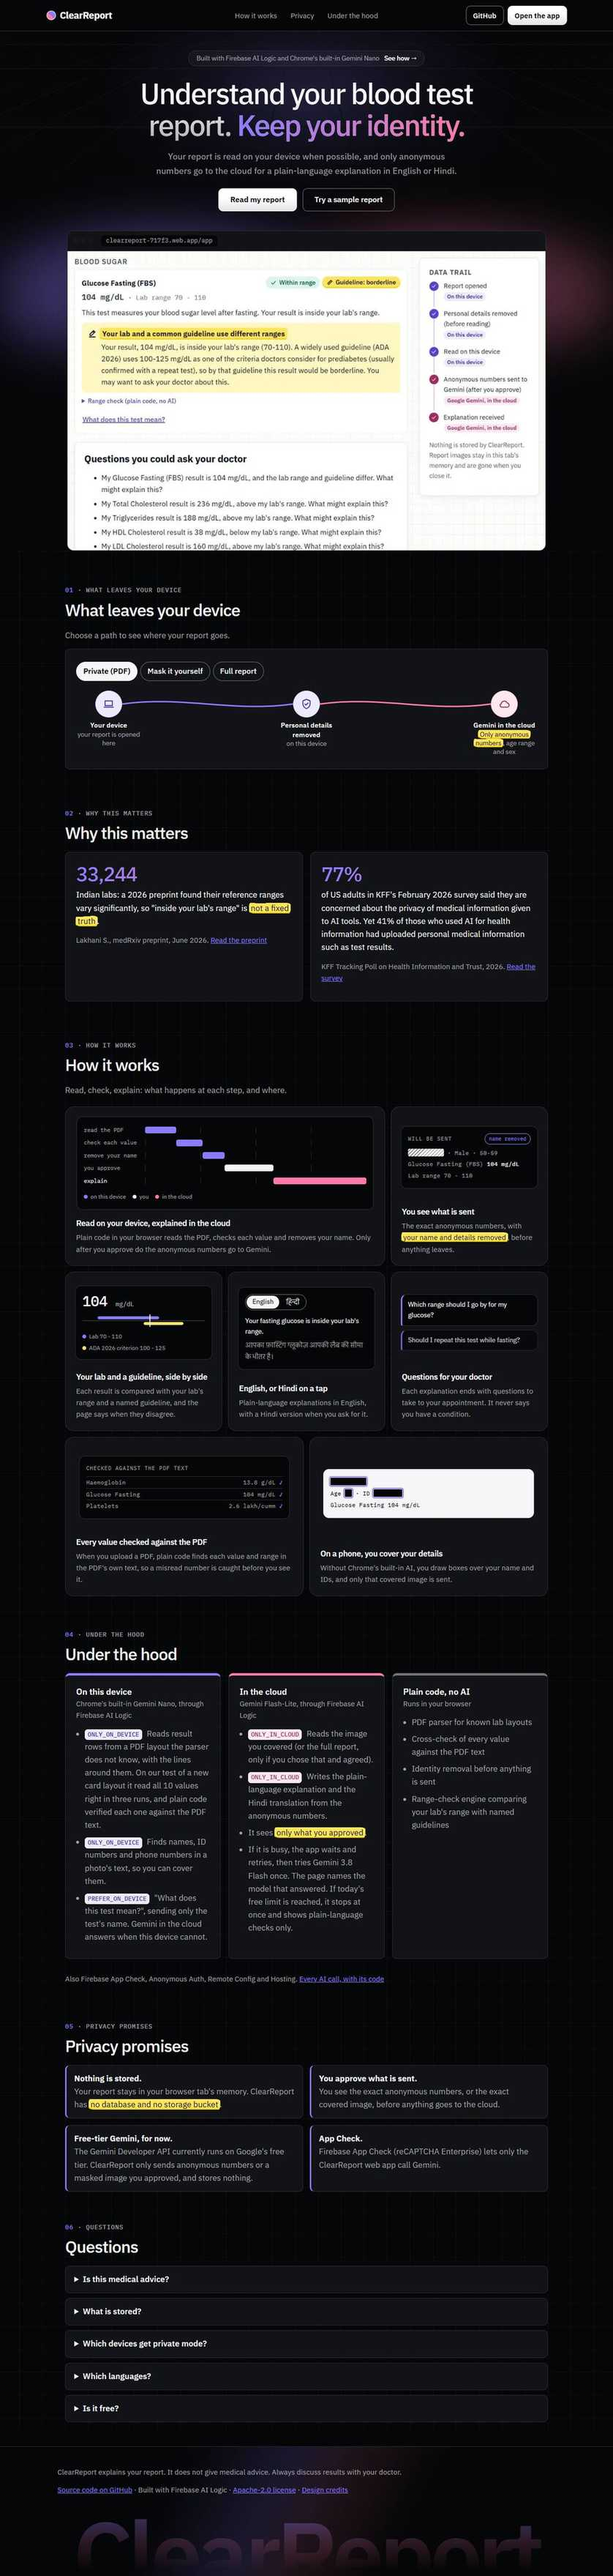
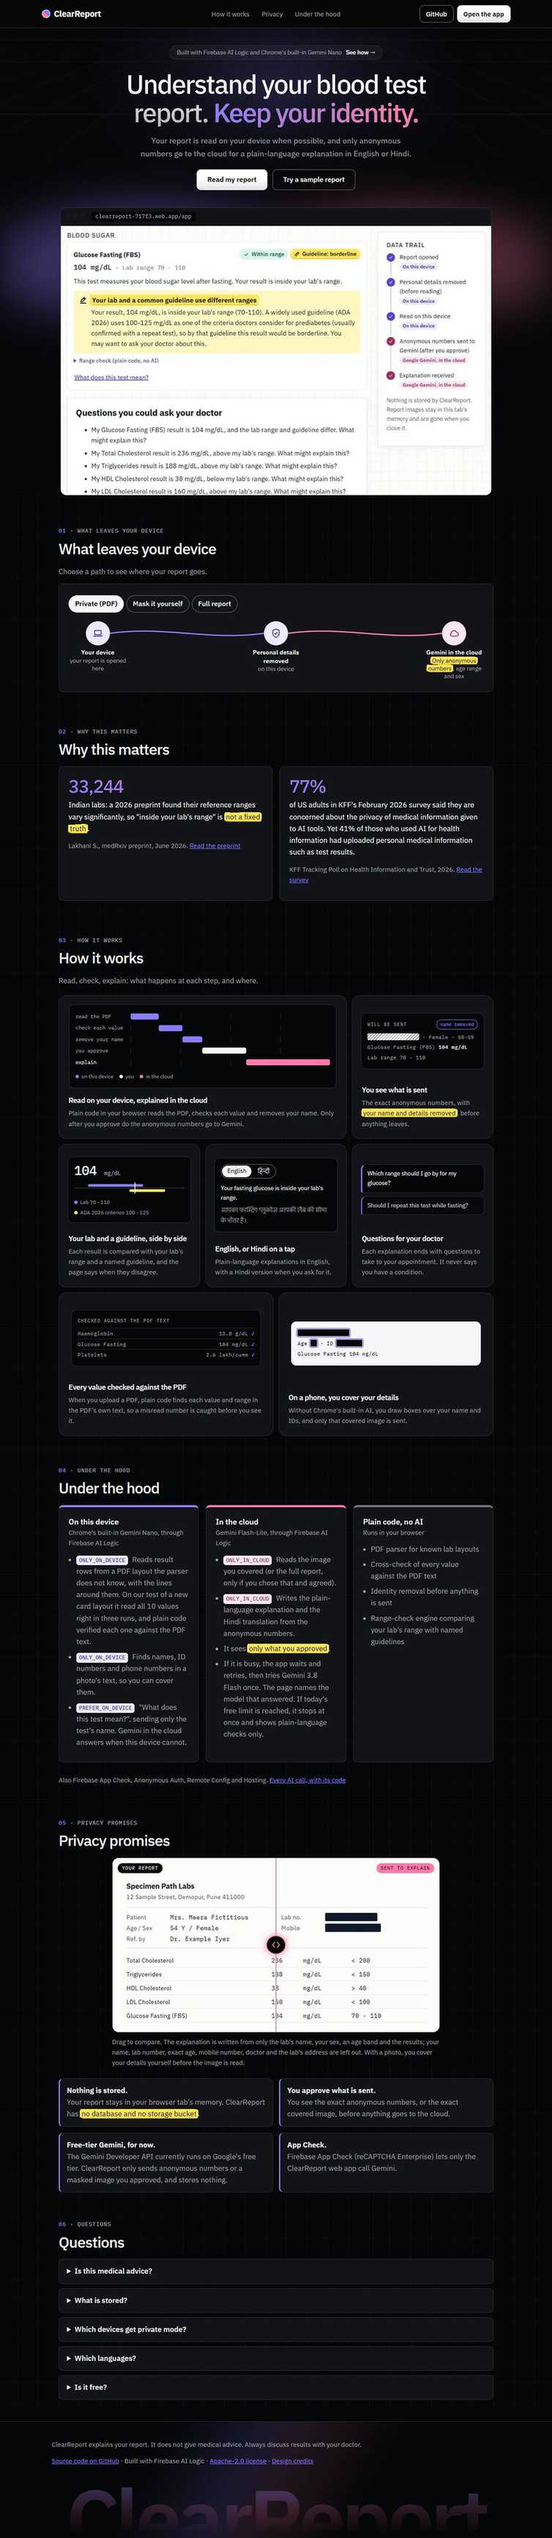
Landing: compare slider showing the report next to what is sent to explain it

Changed region(s): [[0.0, 0.0, 0.9761, 0.9968], [0.3355, 0.9345, 0.6101, 0.9968], [0.8541, 0.0, 0.8846, 0.0312]]

diff --git a/src/index.css b/src/index.css
@@ -479,6 +479,40 @@ a.btn.quiet { border-color: var(--border); color: var(--ink); font-weight: 500; 
 .sec-label { font-family: var(--mono); font-size: 0.8rem; font-weight: 500; letter-spacing: 0.08em; text-transform: uppercase; color: var(--night-muted); margin: 0 0 8px; }
 .sec-label span { color: var(--glow-violet); }
 .land-grid2 { display: grid; grid-template-columns: 1fr 1fr; gap: 16px; }
+/* Compare slider (Compare.tsx): the sample report on paper, as printed, on the left of the divider; on the right the
+   same report as the explanation call receives it. The native range input covers the frame (transparent), so a drag or
+   tap anywhere moves the divider and the keyboard works; the visible handle follows --pos. */
+@property --pos { syntax: '<percentage>'; inherits: true; initial-value: 50%; }
+.cmp-figure { margin: 18px 0 24px; }
+.cmp-figure figcaption { max-width: 760px; margin: 10px auto 0; color: var(--night-muted); }
+.cmp { position: relative; max-width: 760px; margin: 0 auto; border-radius: 16px; overflow: hidden; border: 1px solid var(--night-border); background: var(--paper); user-select: none; }
+.cmp-side { position: relative; }
+.cmp-before { position: absolute; inset: 0; clip-path: inset(0 calc(100% - var(--pos)) 0 0); background: var(--paper); }
+.cmp-intro { animation: cmp-sweep 2.6s ease-in-out 0.3s both; }
+@keyframes cmp-sweep { 0% { --pos: 50%; } 38% { --pos: 94%; } 78% { --pos: 6%; } 100% { --pos: 50%; } }
+@media (prefers-reduced-motion: reduce) { .cmp-intro { animation: none; } }
+.cmp-report { padding: 52px clamp(14px, 4vw, 32px) 22px; color: var(--ink); font-size: clamp(0.72rem, 1.9vw, 0.9rem); }
+.cmp-report p { margin: 0; }
+.cmp-lab { font-weight: 700; font-size: 1.15em; }
+.cmp-meta { color: var(--ink-muted); margin-bottom: 12px !important; }
+.cmp-who { display: grid; grid-template-columns: repeat(auto-fit, minmax(280px, 1fr)); gap: 2px 24px; margin: 0 0 12px; padding: 10px 0; border-top: 1px solid var(--border); border-bottom: 1px solid var(--border); }
+.cmp-who div { display: flex; gap: 8px; }
+.cmp-who dt { color: var(--ink-muted); min-width: 6.5em; }
+.cmp-who dd { margin: 0; font-family: var(--mono); }
+.cmp-gone { text-decoration: none; color: transparent; background: var(--ink); border-radius: 2px; }
+.cmp-report table { width: 100%; border-collapse: collapse; font-family: var(--mono); font-variant-numeric: tabular-nums; }
+.cmp-report td { padding: 4px 6px 4px 0; border-bottom: 1px solid var(--border); white-space: nowrap; }
+.cmp-report td:first-child { font-family: var(--font); white-space: normal; }
+.cmp-chip { position: absolute; top: 12px; z-index: 2; padding: 3px 10px; border-radius: 999px; background: var(--night); color: var(--night-text); font-family: var(--mono); font-size: 0.68rem; letter-spacing: 0.1em; text-transform: uppercase; pointer-events: none; }
+.cmp-chip.left { left: 12px; }
+.cmp-chip.right { right: 12px; background: var(--glow-rose); color: var(--night); }
+.cmp-handle { position: absolute; z-index: 3; top: 0; bottom: 0; left: var(--pos); width: 2px; margin-left: -1px; background: var(--glow-rose); pointer-events: none; }
+.cmp-handle svg { position: absolute; left: 50%; top: 50%; translate: -50% -50%; box-sizing: content-box; padding: 13px 12px; border-radius: 50%; border: 2px solid var(--glow-rose); color: var(--glow-rose); background: var(--night); box-shadow: 0 0 0 6px rgba(255, 122, 168, 0.18), 0 0 26px rgba(255, 122, 168, 0.45); }
+.cmp input { position: absolute; inset: 0; z-index: 4; width: 100%; height: 100%; margin: 0; opacity: 0; cursor: ew-resize; touch-action: pan-y; -webkit-appearance: none; appearance: none; }
+.cmp input::-webkit-slider-thumb { -webkit-appearance: none; width: 2px; height: 100vh; }
+.cmp input::-moz-range-thumb { width: 2px; height: 100vh; border: 0; }
+.cmp:has(input:focus-visible) .cmp-handle svg { outline: 2px solid var(--glow-violet); outline-offset: 4px; }
+
 /* "How it works" as a bento grid (Bento.tsx): one column, two from 640px of section width, six from 920px.
    Static illustrations in the landing tokens: violet on the device, rose in the cloud, yellow only where the lab
    and a guideline disagree. */

diff --git a/src/Compare.tsx b/src/Compare.tsx
@@ -1,0 +1,62 @@
+import { useEffect, useRef, useState, type CSSProperties } from 'react'
+// Drag to compare the sample report with what ClearReport sends to the cloud. The explanation call sends only
+// { lab_name, age_band, sex, tests } (see explain.ts), so the right side keeps exactly those and drops the rest.
+// Before/after slider after Motiq's "Compare Reveal" (MIT), rebuilt in plain CSS: the control is a native range input
+// (arrow keys, Home/End, screen-reader value for free), and the reveal is a clip-path driven by --pos. The one-time
+// sweep on first view is a CSS animation, off with prefers-reduced-motion. Skipped: the spring physics.
+
+// The synthetic sample report (public/samples/demo.pdf).
+const ROWS: [string, string, string, string][] = [
+  ['Total Cholesterol', '236', 'mg/dL', '< 200'], ['Triglycerides', '188', 'mg/dL', '< 150'], ['HDL Cholesterol', '38', 'mg/dL', '> 40'],
+  ['LDL Cholesterol', '160', 'mg/dL', '< 100'], ['Glucose Fasting (FBS)', '104', 'mg/dL', '70 - 110'],
+]
+
+function Report({ sent }: { sent?: boolean }) {
+  const gone = (text: string) => (sent ? <s className="cmp-gone">{text}</s> : text)
+  return (
+    <div className="cmp-report">
+      <p className="cmp-lab">Specimen Path Labs</p>
+      <p className="cmp-meta">{gone('12 Sample Street, Demopur, Pune 411000')}</p>
+      <dl className="cmp-who">
+        <div><dt>Patient</dt><dd>{gone('Mrs. Meera Fictitious')}</dd></div>
+        <div><dt>Lab no.</dt><dd>{gone('SPL-DEMO-20419')}</dd></div>
+        <div><dt>{sent ? 'Age band / Sex' : 'Age / Sex'}</dt><dd>{sent ? <b>50-59 / Female</b> : '54 Y / Female'}</dd></div>
+        <div><dt>Mobile</dt><dd>{gone('+91 90000 00015')}</dd></div>
+        <div><dt>Ref. by</dt><dd>{gone('Dr. Example Iyer')}</dd></div>
+      </dl>
+      <table>
+        <tbody>{ROWS.map(([t, v, u, r]) => <tr key={t}><td>{t}</td><td>{v}</td><td>{u}</td><td>{r}</td></tr>)}</tbody>
+      </table>
+    </div>
+  )
+}
+
+export default function Compare() {
+  const [pos, setPos] = useState(50)
+  const [touched, setTouched] = useState(false)
+  const [seen, setSeen] = useState(false)
+  const ref = useRef<HTMLDivElement>(null)
+  useEffect(() => {
+    const el = ref.current
+    if (!el || typeof IntersectionObserver === 'undefined') return
+    const io = new IntersectionObserver(([e]) => { if (e.isIntersecting) { setSeen(true); io.disconnect() } }, { threshold: 0.5 })
+    io.observe(el)
+    return () => io.disconnect()
+  }, [])
+  return (
+    <figure className="cmp-figure">
+      <div ref={ref} className={`cmp${seen && !touched ? ' cmp-intro' : ''}`} style={{ '--pos': `${pos}%` } as CSSProperties}>
+        <div className="cmp-side" aria-hidden="true"><Report sent /></div>
+        <div className="cmp-side cmp-before" aria-hidden="true"><Report /></div>
+        <span className="cmp-chip left" aria-hidden="true">Your report</span>
+        <span className="cmp-chip right" aria-hidden="true">Sent to explain</span>
+        <span className="cmp-handle" aria-hidden="true">
+          <svg width="18" height="14" viewBox="0 0 18 14" fill="none"><path d="M6 1 1 7l5 6M12 1l5 6-5 6" stroke="currentColor" strokeWidth="2" strokeLinecap="round" strokeLinejoin="round" /></svg>
+        </span>
+        <input type="range" min={0} max={100} value={pos} aria-label="Compare your report with what is sent to explain it" aria-valuetext={`${pos}% showing your report`}
+          onChange={(e) => { setTouched(true); setPos(Number(e.target.value)) }} onPointerDown={() => setTouched(true)} />
+      </div>
+      <figcaption className="small muted">Drag to compare. The explanation is written from only the lab's name, your sex, an age band and the results; your name, lab number, exact age, mobile number, doctor and the lab's address are left out. With a photo, you cover your details yourself before the image is read.</figcaption>
+    </figure>
+  )
+}

diff --git a/src/Landing.tsx b/src/Landing.tsx
@@ -1,6 +1,7 @@
 import { useEffect, useRef, useState } from 'react'
 import Beam from './Beam'
 import Bento from './Bento'
+import Compare from './Compare'
 import { checkTest, DISCLAIMER } from './guidelines'
 import { Badge, Icon, Logo } from './ui'
 // The landing page at "/". Static: no Firebase, no AI, no report. The tool lives at /app.
@@ -184,6 +185,7 @@ export default function Landing() {
         <section className="land-section" id="privacy" aria-labelledby="privacy-title">
           <p className="sec-label" aria-hidden="true"><span>05</span> · Privacy promises</p>
           <h2 id="privacy-title">Privacy promises</h2>
+          <Compare />
           <ul className="promises">
             <li><b>Nothing is stored.</b> Your report stays in your browser tab's memory. ClearReport has <mark className="hl">no database and no storage bucket</mark>.</li>
             <li><b>You approve what is sent.</b> You see the exact anonymous numbers, or the exact covered image, before anything goes to the cloud.</li>

diff --git a/scripts/contrast.ts b/scripts/contrast.ts
@@ -38,6 +38,7 @@ const PAIRS: [string, string, number, string][] = [
   ['glow-violet', 'night', 4.5, 'links on dark, gradient start'], ['glow-rose', 'night', 4.5, 'gradient end'],
   ['night-muted', 'night-grid', 4.5, 'section text where it crosses a slide-grid line'],
   ['glow-violet', 'night-surface', 4.5, 'links, step names and fact numbers on dark cards'], ['glow-rose', 'night-surface', 4.5, 'fact number gradient end on dark cards'],
+  ['night', 'glow-rose', 4.5, '"Sent to explain" chip on the compare slider'], ['night-text', 'night', 4.5, '"Your report" chip on the compare slider'],
   ['night-text', 'night-border', 4.5, '"Paused" note and hovered tabs in the data-journey diagram'], ['night', 'night-text', 4.5, 'selected tab in the data-journey diagram'],
   ['night-control', 'night', 3, 'ghost button and menu button borders on dark (non-text)'], ['glow-violet', 'night', 3, 'focus ring on dark (non-text)'], ['glow-violet', 'night-surface', 3, 'focus ring on a hovered dark control (non-text)'],
 ]

diff --git a/src/Bento.tsx b/src/Bento.tsx
@@ -27,7 +27,7 @@ const trail = (
 const approve = (
   <div className="bv-panel bv-mono">
     <p className="bv-head">Will be sent <span className="bv-badge">name removed</span></p>
-    <p><s className="bv-redact">Asha Verma</s> · Male · 50-59</p>
+    <p><s className="bv-redact">Meera Fictitious</s> · Female · 50-59</p>
     <p>Glucose Fasting (FBS) <b>104 mg/dL</b></p>
     <p>Lab range 70 - 110</p>
   </div>
@@ -74,7 +74,7 @@ const crosscheck = (
 
 const mask = (
   <div className="bv-panel bv-mono bv-photo">
-    <p><span className="bv-box">Asha Verma</span></p>
+    <p><span className="bv-box">Meera Fictitious</span></p>
     <p>Age <span className="bv-box">54</span> · ID <span className="bv-box">RB-20419</span></p>
     <p>Glucose Fasting 104 mg/dL</p>
   </div>

diff --git a/docs/superpowers/specs/2026-11-23-ui-theme-design.md b/docs/superpowers/specs/2026-11-23-ui-theme-design.md
@@ -101,6 +101,7 @@ The landing page only; the app screens do not change. The header, announcement p
 - Product image: rounded 14px with a large soft shadow and a violet-to-rose radial glow behind it (CSS only), kept clear of the hero text and buttons. The live glucose card on phones stays.
 - The hero fades in on load (0.6s); with `prefers-reduced-motion` it does not, and the white button does not scale.
 - "How it works" is a bento grid (after the 21st.dev "Marketing Feature Bento", layout only, in plain CSS with these tokens): seven `--night-surface` cards on a six-column grid (one column on phones, two from 640px of section width), each with a small static illustration drawn from the synthetic sample: the data trail (violet on the device, white for you, rose in the cloud), what will be sent with the name redacted, the lab range against the ADA criterion band (yellow, since that is where they disagree), the English and Hindi toggle, questions for your doctor, the PDF cross-check and a covered photo. The illustrations are `aria-hidden`; each card's heading and text carry the meaning. No scroll animation.
+- Privacy promises open with a compare slider (after Motiq's "Compare Reveal", MIT, in plain CSS): the synthetic sample report printed on `--paper` on the left of the divider, and on the right the same report as the explanation call receives it (lab name, sex, age band and results; name, lab number, exact age, mobile, doctor and address blacked out). The divider and handle are `--glow-rose`, the "Sent to explain" chip rose with `--night` text. The control is a native range input over the frame (drag or tap anywhere, arrow keys, Home and End); its focus shows as a violet ring on the handle. On first view it sweeps once (2.6s), never with `prefers-reduced-motion`, and stops as soon as you touch it. The report is `aria-hidden`; the caption says in words what is and is not sent.
 - The footer is black with the header's thin border. Behind it a soft violet-to-rose light shaft drifts slowly on a diagonal (static with `prefers-reduced-motion`), and a very large "ClearReport" wordmark in a fading glow gradient is cropped at the bottom edge (decorative, `aria-hidden`). It shows only what the footer already had: the disclaimer and the GitHub, Firebase AI Logic, licence and design credits line.
 - Every landing section follows the hero (since 2026-11-24, replacing the light paper sections and the black-to-paper edge under the product image): black with a very faint flat grid (white at 3.5%), cards on `--night-surface` with a `--night-border` border and no shadow, section headings in Plex Sans 500 at -0.03em, section labels in `--night-muted` with `--glow-violet` numbers, the two big facts in the violet-to-rose gradient, privacy promises as dark cards with a violet left edge, Under the hood with glow-coloured top edges. The data-journey tabs are ghost buttons (white when selected) and its pulse uses the glow colours. The highlighter marks stay yellow with ink text. The app (/app) stays on light paper.
 - Contrast: the headline's faintest point is 9.78:1, the white buttons 16.00:1 at their palest, header links 4.65:1 where the translucent header sits over the light paper (checked as `--night` at 80% over `--paper`).

diff --git a/README.md b/README.md
@@ -212,4 +212,5 @@ No UI library is installed. These MIT-licensed designs were used as visual refer
 - The upload drop zone: "File Upload" by Edu Calvo (educlopez), MIT, https://21st.dev/@educlopez/components/file-upload
 - The landing page hero (perspective grid and centred layout): "Hero Section Dark" by kinfe123 / FarmUI, MIT, https://21st.dev/@kinfe123/components/hero-section-dark
 - The landing "How it works" bento grid (card sizes on a six-column grid, a small illustration in each card): "Marketing Feature Bento" on 21st.dev, licence not stated on the page, so only the layout idea was used and no code was copied; the illustrations show ClearReport's own steps
+- The "Your report" / "Sent to explain" compare slider on the landing page: "Compare Reveal" from Motiq, MIT, https://motiq.dev/components/compare-reveal (rebuilt on a native range input, without the spring physics)
 - The landing footer (diagonal light shaft and the large cropped wordmark): "Beam Wordmark Footer" by Kedhar (kedhareswer) on 21st.dev, licence not stated on the page, so only the look was used and no code was copied
